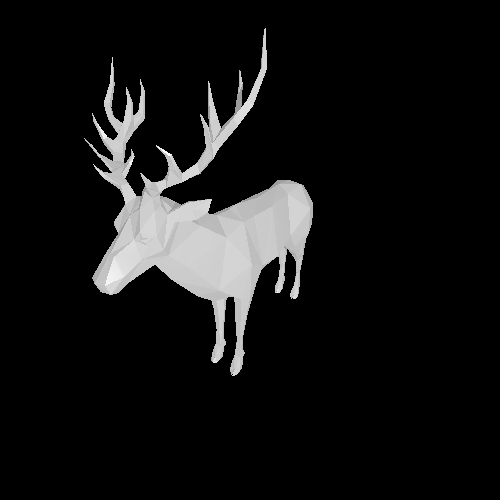
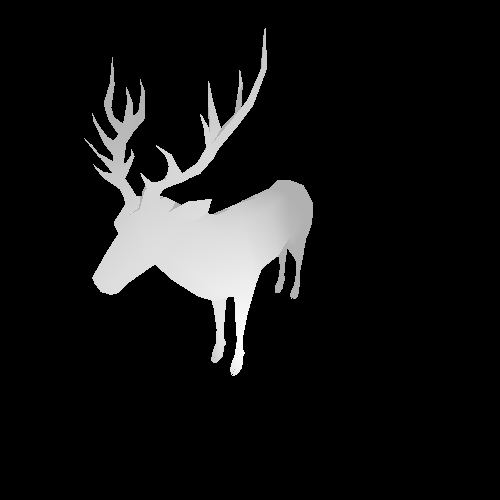
Vertex normals WIP

diff --git a/test.c b/test.c
@@ -230,6 +230,7 @@ int test_deer()
 
 int main()
 {
+    /*
     printf("Shading parts: %s\n",
             test_shading_parts() == 0 ? "passed" : "failed");
     printf("Triangle: %s\n",
@@ -239,9 +240,8 @@ int main()
            test_classic_box_first() == 0 ? "passed" : "failed");
     printf("Classic box 2: %s\n",
            test_classic_box_second() == 0 ? "passed" : "failed");
-
-    /*
-       printf("Deer: %s\n",
-       test_deer() == 0 ? "passed" : "failed");
     */
+
+    printf("Deer: %s\n",
+            test_deer() == 0 ? "passed" : "failed");
 }

diff --git a/src/file_reader.c b/src/file_reader.c
@@ -456,9 +456,9 @@ static scene_obj triangle_from_vertex_infos(vertex_info *v1,
     // @TODO Should i normalize vn-s here?
     if (v1->vn && v2->vn && v3->vn) {
         tr.data.tr.has_vn = 1;
-        tr.data.tr.vn1 = *(v1->v);
-        tr.data.tr.vn2 = *(v2->v);
-        tr.data.tr.vn3 = *(v3->v);
+        tr.data.tr.vn1 = vec3d_normalized(*(v1->v));
+        tr.data.tr.vn2 = vec3d_normalized(*(v2->v));
+        tr.data.tr.vn3 = vec3d_normalized(*(v3->v));
     } 
     
     return tr;

diff --git a/src/raytracer.c b/src/raytracer.c
@@ -10,8 +10,9 @@ static int intersect_ray(ray r, const scene_obj *obj, vec3d *out, double *dist)
     switch (obj->type) {
         case sphere:
             return intersect_with_sphere(r, &(obj->data.s), out, dist);
-        case triangle:
-            return intersect_with_triangle(r, &(obj->data.tr), out, dist);
+        case triangle: // @HACK
+            return intersect_with_triangle(
+                    r, (triangle_obj *) &(obj->data.tr), out, dist);
     }
 
     return 0;

diff --git a/src/geom.c b/src/geom.c
@@ -190,10 +190,6 @@ triangle_obj trianlge_literal(double x1, double y1, double z1,
 vec3d get_triangle_normal(vec3d point, const triangle_obj *tr,
         vec3d view_point)
 {
-    return vec3d_dot(tr->normal, vec3d_sub(view_point, point)) > 0.0 ?
-        tr->normal :
-        vec3d_neg(tr->normal);
-
     if (tr->has_vn) {
         return vec3d_sum3(
                 vec3d_scale(tr->vn1, tr->last_hit_barycentric.x),

diff --git a/src/geom.h b/src/geom.h
@@ -36,7 +36,7 @@ vec3d vec3d_sum(vec3d v1, vec3d v2);
 vec3d vec3d_sum3(vec3d v1, vec3d v2, vec3d v3);
 vec3d vec3d_sub(vec3d v1, vec3d v2);
 vec3d vec3d_scale(vec3d v, double coeff);
-vec3d vec3d_pow(vec3d v, double p_);
+vec3d vec3d_pow(vec3d v, double p);
 vec3d vec3d_normalized(vec3d v);
 void vec3d_normalize(vec3d *v);
 vec3d vec3d_cross(vec3d v1, vec3d v2);
